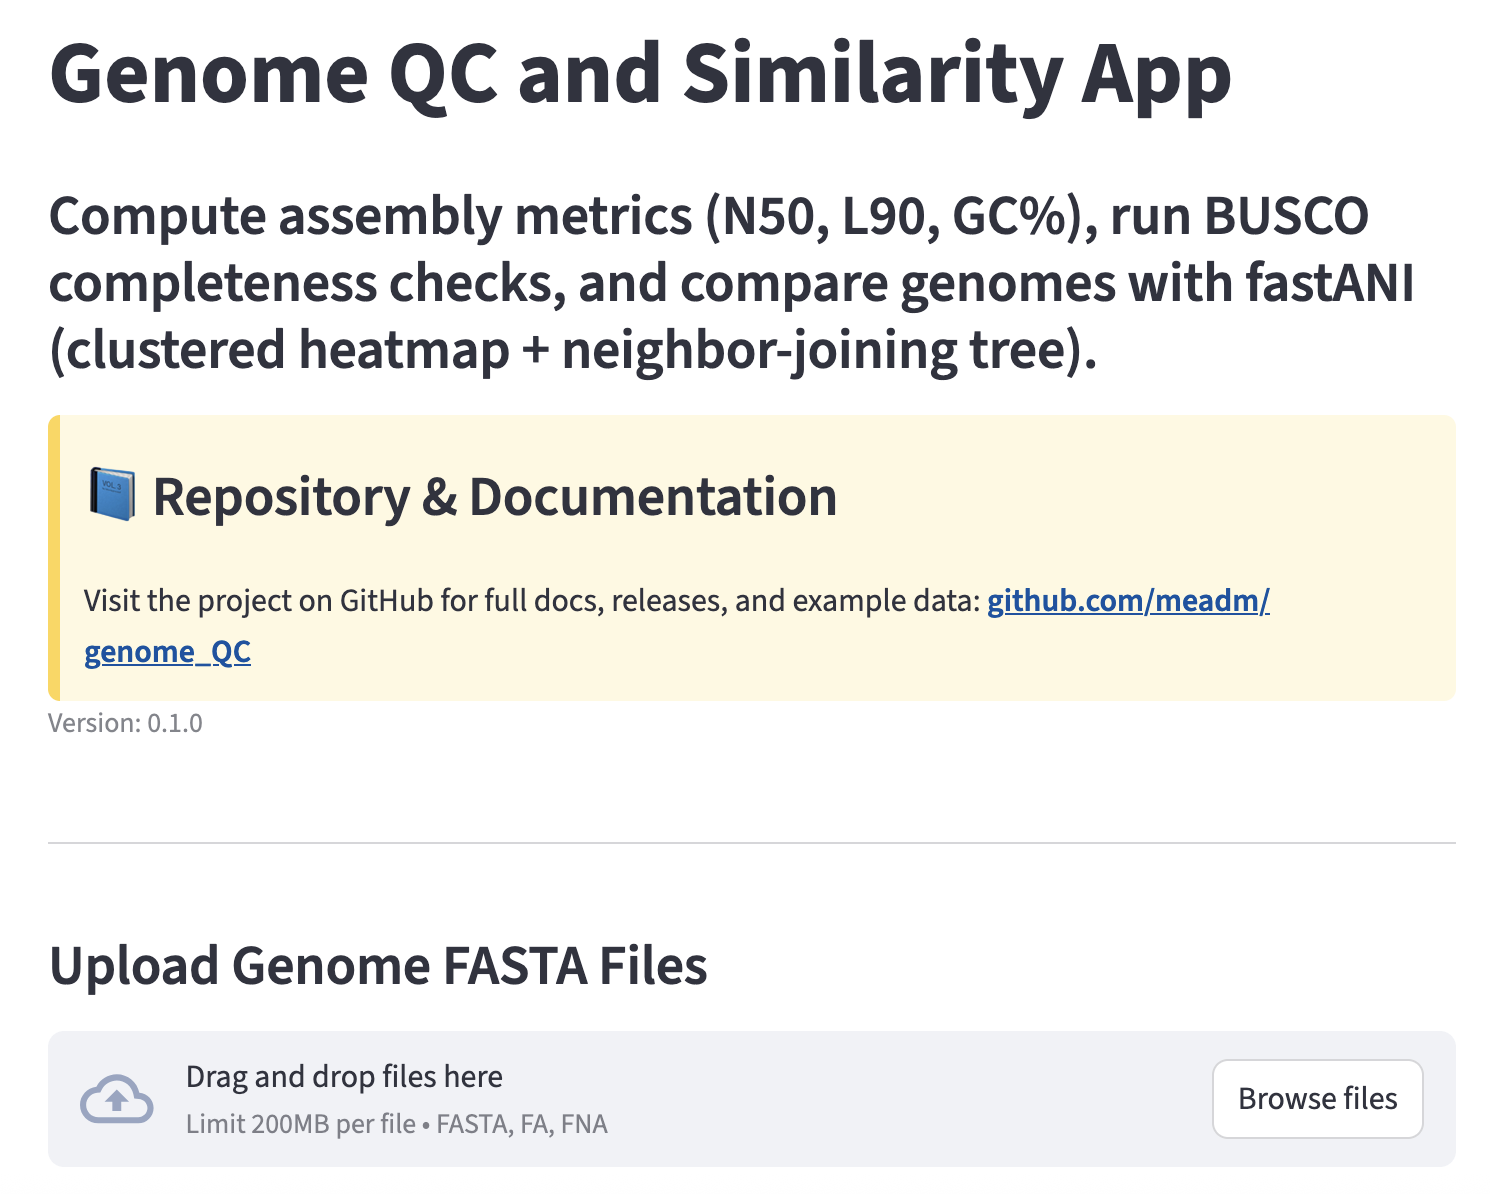
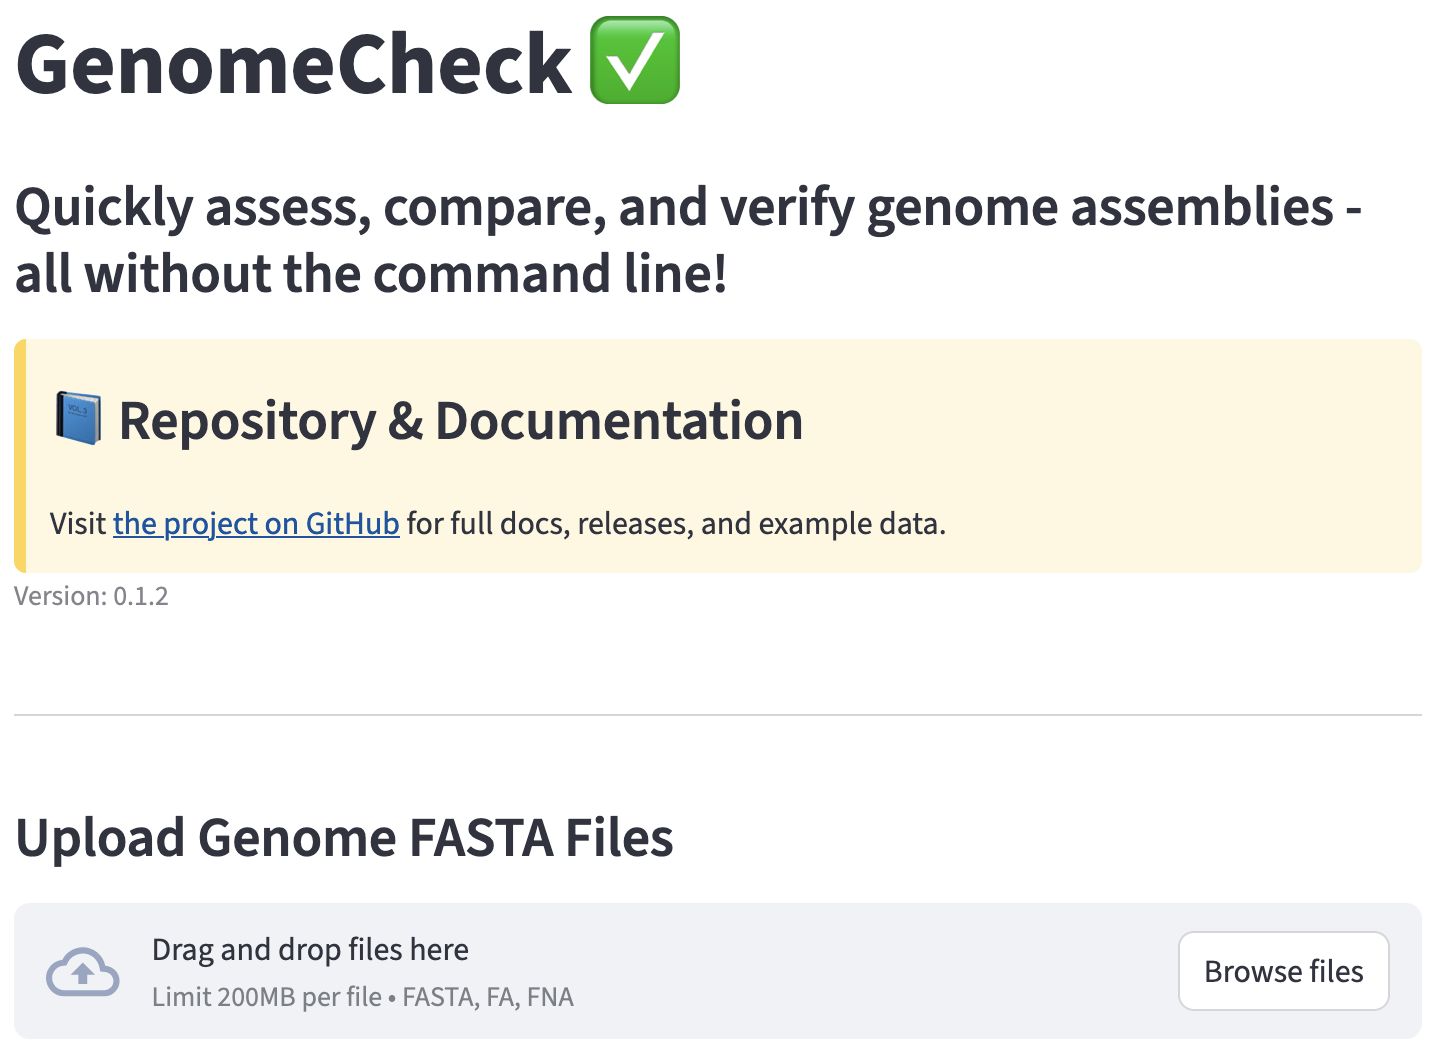
cleanup button fix and README updates

diff --git a/streamlit_app.py b/streamlit_app.py
@@ -85,7 +85,7 @@ if uploaded_files:
     )
     # If BUSCO is not available (e.g., Streamlit Cloud), force-disable and inform the user
     if not busco_available:
-        st.warning("BUSCO is not available on the Streamlit Cloud or lean Docker (e.g. 'genome-qc:latest') implementations of this app. Run locally or use our Docker image with BUSCO ('genome-qc:busco') if you need BUSCO analyses.")
+        st.warning("BUSCO is not available on the Streamlit Cloud or lean Docker (e.g. 'genomecheck:latest') implementations of this app. Run locally or use our Docker image with BUSCO ('genomecheck:busco') if you need BUSCO analyses.")
         include_busco = False
     
     if include_busco:
@@ -115,8 +115,10 @@ if uploaded_files:
         busco_cpus = st.slider("BUSCO CPUs", min_value=1, max_value=max_cpus, value=min(4, max_cpus))
 
     # Save uploaded files locally into session-specific temp directory
-    # Ensure session_temp exists (fallback to environment var)
+    # Ensure session_temp exists (fallback to environment var or 'temp_sessions')
     session_temp = st.session_state.get('session_temp') or os.environ.get('SESSION_TEMP_DIR')
+    
+    os.makedirs(session_temp, exist_ok=True)
     file_paths = file_handlers.save_uploaded_files(uploaded_files, directory_path=session_temp)
     st.session_state.temp_files_created = True
 

diff --git a/version.py b/version.py
@@ -1,1 +1,1 @@
-__version__ = "0.1.2"
+__version__ = "0.1.3"

diff --git a/README.md b/README.md
@@ -123,12 +123,11 @@ Then run using the `docker run` commands above, but omit the `meadm` prefix to t
 
 ## Releases — Docker Images & Example Data
 
-Docker images and example datasets are published on the project's GitHub Releases page. Each release contains:
-- pre-built Docker image archives (compressed `.tar.gz`) for different variants (e.g. `lean` / `busco`),
-- example data (e.g. `example-yeast-genomes.zip`),
-- checksums and optional signatures.
+Docker images and example datasets are available on the project's [GitHub Releases page](https://github.com/meadm/GenomeCheck/releases).
 
-Release page: https://github.com/meadm/GenomeCheck/releases
+Each release contains:
+- Pre-built Docker image archives (`.tar.gz`) for different variants (e.g. `lean` / `busco`)
+- Example data (e.g. `example-bacteria-genomes.zip`)
 
 ## Contributing and Development
 
